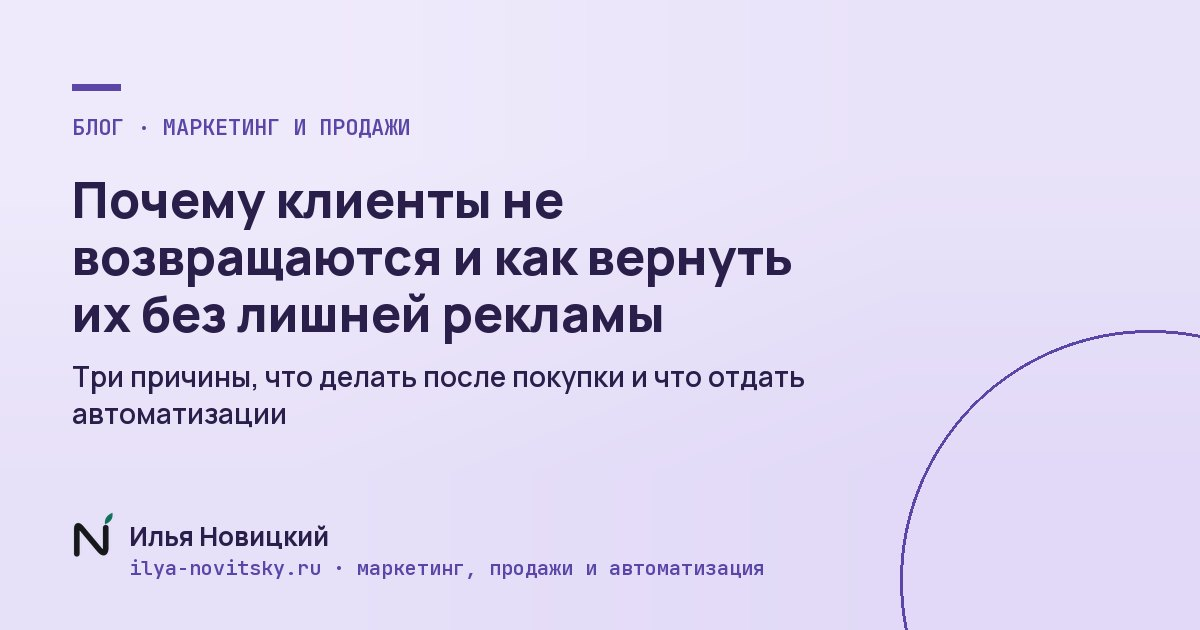
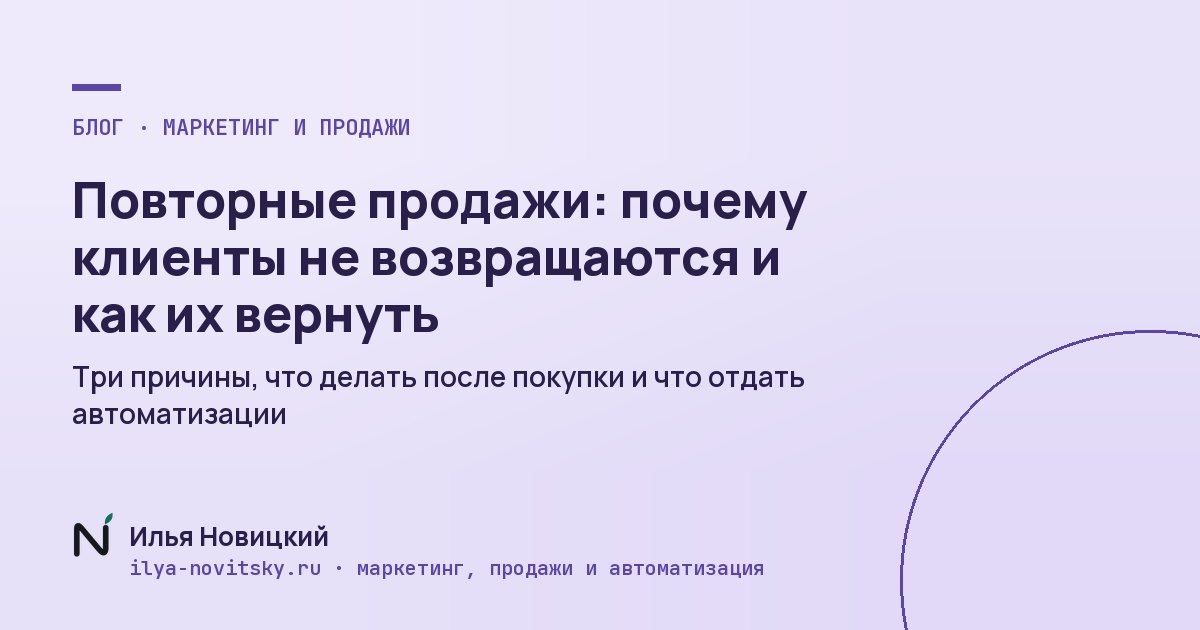
Блог: уникальность статей (убраны повторы между статьями), новые заголовки MVP, первых клиентов, повторных продаж (#218)

Changed region(s): [[0.0617, 0.3921, 0.6783, 0.5429], [0.1233, 0.3016, 0.6783, 0.3619]]

diff --git a/content/blog/vnedrenie-ii-v-biznes.md b/content/blog/vnedrenie-ii-v-biznes.md
@@ -27,7 +27,7 @@ cover: "Внедрение ИИ в бизнес"
 
 Прежде чем что-то автоматизировать, стоит пройти путь клиента целиком, от первого обращения до оплаты и повторной покупки, и посмотреть, где люди уходят.
 
-В [примере аудита](/primer-audita) на сайте разобрана сеть из трёх студий растяжки. Собственник хотел увеличить рекламный бюджет, потому что абонементов продавали мало. Разбор показал, что реклама работает нормально, а деньги уходят после обращения: 81 человек из 180 ждал ответа больше часа, 25 из 70 записавшихся не приходили на пробное, а из постоянной базы каждый месяц уходило 42 человека.
+В [примере аудита](/primer-audita) на сайте разобрана сеть из трёх студий растяжки. Собственник хотел увеличить рекламный бюджет, потому что абонементов продавали мало. Разбор показал, что реклама работает нормально, а деньги уходят после обращения: 81 человек из 180 ждал ответа больше часа, а дальше люди терялись на пробных занятиях и продлениях.
 
 [[viz:funnel]]
 
@@ -49,7 +49,7 @@ cover: "Внедрение ИИ в бизнес"
 
 Не нужен: продажа абонемента на пробном, потому что это работа тренера и она уже идёт; «ИИ-контент» без плана, от которого публикаций больше, а клиентов нет; замена администратора, который нужен для звонков.
 
-Хороший признак задачи для ИИ: она повторяется, у неё есть понятный образец хорошего результата, а ошибку легко заметить. Плохой признак: задача держится на живом контакте, доверии или решении, за которое кто-то отвечает деньгами.
+Граница проходит так: ИИ берёт то, где важны скорость и аккуратность, а люди то, где важны доверие и ответственность за решение.
 
 ## Шаг 4. Наведите порядок до автоматизации
 
@@ -63,13 +63,13 @@ cover: "Внедрение ИИ в бизнес"
 
 Пилот на одной задаче лучше, чем внедрение «везде понемногу». Выберите самую дорогую рутину из шага 2, которая прошла фильтр из шага 3, и отдайте её агенту.
 
-Через пару недель видно, сколько часов освободилось, сколько обращений получили ответ без участия людей и как часто приходится переделывать работу агента. Если цифры понятны, берёте следующую задачу. Если нет, стоит разобраться, что пошло не так, до того как масштабировать.
+Результат пилота меряется простыми вещами: сколько часов освободилось, сколько обращений получили ответ без участия людей и как часто приходится переделывать работу агента. Если цифры понятны, берёте следующую задачу. Если нет, стоит разобраться, что пошло не так, до того как масштабировать.
 
 ## Шаг 6. Решите, кто управляет агентами
 
-Это шаг, который чаще всего пропускают. Пока агент один, его легко проверять самому. Когда их пять или десять, кто-то должен каждый день ставить им задачи, проверять работу и дописывать правила.
+Это шаг, который чаще всего пропускают. Агенты не устают, но и сами себя не улучшают: инструкции устаревают, бизнес меняется, и кто-то должен регулярно это подправлять.
 
-Вариантов три. Вы делаете это сами, и тогда стоит заложить на это время. Вы поручаете это сотруднику, которому интересно разбираться в ИИ. Или вы берёте в команду специалиста по внедрению ИИ, который приходит со своими агентами и управляет ими сам. Так работаю я: ставлю задачи отделам агентов, проверяю каждый результат и приношу собственнику готовое.
+Вариантов три. Вы делаете это сами, и тогда стоит заложить на это время. Вы поручаете это сотруднику, которому интересно разбираться в ИИ. Или вы берёте в команду специалиста по внедрению ИИ, который приходит со своими агентами и управляет ими сам. Так работаю я: агенты в моей среде разложены по отделам, задачи им ставлю я и перед собственником за результат отвечаю тоже я.
 
 **Внедрение ИИ в бизнес держится на трёх вещах: деньги, порядок и человек, который за это отвечает.** Нейросеть здесь только способ.
 
@@ -85,4 +85,4 @@ cover: "Внедрение ИИ в бизнес"
 Если агентов один-два, справится и собственник. Если вы хотите, чтобы ИИ работал в нескольких отделах сразу, нужен человек, который управляет агентами каждый день, иначе через месяц всё вернётся к ручной работе.
 
 **Подходит ли внедрение ИИ маленькой компании?**  
-Да. Решения там принимаются быстрее, а каждый освобождённый час заметен сразу. Какую работу можно отдать в первую очередь, я разбирал в статье про [ИИ-сотрудника для бизнеса](/blog/ii-sotrudnik-dlya-biznesa).
+Да. Решения там принимаются быстрее, а каждый освобождённый час заметен сразу. Какую работу можно отдать в первую очередь, смотрите в статье про [ИИ-сотрудника для бизнеса](/blog/ii-sotrudnik-dlya-biznesa).

diff --git a/content/blog/ii-v-prodazhah.md b/content/blog/ii-v-prodazhah.md
@@ -19,9 +19,9 @@ cover: "ИИ в продажах"
 
 [[viz:chat]]
 
-**Напоминания.** Пробное занятие, визит, конец абонемента, клиент, который давно не покупал. Это скучная работа, которую люди честно забывают делать, когда заявок много. В том же примере аудита 25 из 70 записавшихся не пришли на пробное, а напоминаний им никто не отправлял.
+**Напоминания.** Пробное занятие, визит, конец абонемента, клиент, который давно не покупал. Это скучная работа, которую люди честно забывают делать, когда заявок много. А клиент, которому никто не напомнил о пробном занятии, часто просто не приходит.
 
-**Разбор переписки и звонков.** Менеджеру некогда перечитывать сотни диалогов и искать, на каком шаге уходят клиенты. Агент делает это за часы. Так мои агенты разобрали больше 4 100 сделок в CRM моего агентства.
+**Разбор переписки и звонков.** Менеджеру некогда перечитывать сотни диалогов и искать, на каком шаге уходят клиенты. Агент читает всё подряд и приносит короткий вывод: на каком вопросе люди замолкают, какое возражение звучит чаще всего, кто из менеджеров теряет больше заявок.
 
 ## Что делает ИИ-агент в отделе продаж
 
@@ -45,9 +45,9 @@ cover: "ИИ в продажах"
 
 ## Что оставить менеджеру
 
-Есть работа, которую ИИ-агент сделает быстро и уверенно, и именно поэтому её опасно отдавать без человека.
+В продажах есть моменты, где скорость не главное, а цена ошибки высокая.
 
-**Разговор с клиентом, который готов купить.** Доверие, интонация, умение услышать, что на самом деле мешает решиться, пока остаются за людьми.
+**Живой разговор перед покупкой.** Доверие, интонация, умение услышать, что на самом деле мешает решиться, пока остаются за людьми.
 
 **Торг, скидки и договорённости.** Агент может назвать цену из прайса, но любое отступление от него подтверждает человек.
 
@@ -59,14 +59,14 @@ cover: "ИИ в продажах"
 
 С порядка в CRM. Если заявки лежат в трёх мессенджерах и тетради администратора, агент будет терять их так же, как люди. Я продал лицензий amoCRM больше чем на 1 млн ₽ и почти в каждом проекте видел одно и то же: сначала этапы сделки, роли и правила, потом автоматизация.
 
-Дальше одна задача, самая дорогая по потерям. Чаще всего это первый ответ или напоминания, потому что там деньги теряются каждый день. Как найти такую задачу и посчитать цену рутины, я разбирал в статье про [внедрение ИИ в бизнес](/blog/vnedrenie-ii-v-biznes).
+Дальше одна задача, самая дорогая по потерям. Чаще всего это первый ответ или напоминания, потому что там деньги теряются каждый день. Как найти такую задачу и посчитать цену рутины, есть в статье про [внедрение ИИ в бизнес](/blog/vnedrenie-ii-v-biznes).
 
 Если непонятно, где именно уходят клиенты, начните с аудита продаж: пройдите путь клиента от обращения до оплаты и посчитайте, сколько людей теряется на каждом шаге.
 
 ## Вопросы
 
 **Заменит ли ИИ менеджеров по продажам?**  
-Нет, он заберёт у них рутину: первый ответ, напоминания, коммерческие предложения и разбор переписки. Разговор с клиентом, который готов купить, и договорённости остаются за людьми.
+Нет. У менеджера уйдут первый ответ, напоминания, черновики предложений и разбор переписки, а продавать, торговаться и договариваться будут люди.
 
 **Можно ли внедрить ИИ в продажи без CRM?**  
 Начать можно, например с бота первого ответа. Но без CRM трудно понять, что изменилось, и агент быстро упрётся в тот же беспорядок, что и люди.

diff --git a/content/blog/ii-sotrudnik-dlya-biznesa.md b/content/blog/ii-sotrudnik-dlya-biznesa.md
@@ -13,9 +13,9 @@ cover: "ИИ-сотрудник для бизнеса"
 
 ## Что такое ИИ-сотрудник простыми словами
 
-Это ИИ-агент с постоянной ролью в вашей команде. Он знает, кто ваши клиенты, что вы продаёте и как у вас принято отвечать, и каждый раз не нужно объяснять всё заново, как в обычном чате с нейросетью.
+Это ИИ-агент с постоянной ролью в вашей команде. Он помнит ваш прайс, ваших клиентов и то, как у вас принято отвечать, поэтому вводить его в курс дела каждый раз не нужно.
 
-От чат-бота его отличает то, что он не ходит по заранее заданному сценарию. Вы ставите задачу обычными словами, он сам раскладывает её на шаги, делает и приносит готовый результат на проверку. Подробно о том, как такого агента собрать, я писал в статье [как создать ИИ-агента для своих задач](/blog/kak-sozdat-ii-agenta).
+От чат-бота его отличает то, что он не ходит по заранее заданному сценарию. Вы описываете, что нужно получить, а он сам решает, с чего начать, и возвращается с готовой работой. Подробно о том, как такого агента собрать, я писал в статье [как создать ИИ-агента для своих задач](/blog/kak-sozdat-ii-agenta).
 
 У меня таких сотрудников 19, и они разложены по восьми отделам: управление, продажи, маркетинг, разработка, финансы, реклама, персонал и видео. Ниже работа, которую они уже делают на живых проектах.
 
@@ -47,7 +47,7 @@ cover: "ИИ-сотрудник для бизнеса"
 
 ## С какой задачи начать
 
-Я выбираю первую задачу по трём признакам. Она повторяется каждую неделю. У неё есть образец хорошего результата, который можно показать агенту. И ошибку в ней легко заметить при проверке.
+Я выбираю первую задачу по трём признакам: работа повторяется из недели в неделю, есть пример того, как выглядит «хорошо», и ошибку видно сразу при проверке.
 
 Например, ответы на типовые вопросы клиентов подходят почти всем. Коммерческое предложение по шаблону подходит тем, кто продаёт услуги. Разбор звонков и переписки подходит тем, у кого заявки есть, а продаж мало и непонятно почему.
 
@@ -62,10 +62,7 @@ cover: "ИИ-сотрудник для бизнеса"
 ## Вопросы
 
 **Заменит ли ИИ-сотрудник менеджера по продажам?**  
-Скорее заберёт у него рутину: ответы на типовые вопросы, коммерческие предложения, напоминания пропавшим клиентам. Разговор с клиентом, который готов купить, и договорённости остаются за человеком.
-
-**Чем ИИ-сотрудник отличается от чат-бота?**  
-Чат-бот отвечает по сценарию. ИИ-сотрудник получает задачу, сам решает, какие шаги нужны, и приносит готовую работу на проверку.
+Скорее заберёт у него рутину. Подробно, что отдать агентам, а что оставить менеджеру, разобрано в статье про [ИИ в продажах](/blog/ii-v-prodazhah).
 
 **Безопасно ли давать ИИ-сотруднику доступ к CRM?**  
 Для разбора хватает доступа только на чтение, тогда агент ничего не меняет. Какие данные он видит и где они лежат, стоит решить до первого запуска.

diff --git a/content/blog/kursy-po-ai-a-produkta-net.md b/content/blog/kursy-po-ai-a-produkta-net.md
@@ -27,7 +27,7 @@ cover: "Обучение ИИ для бизнеса"
 
 «Логику понимаю, а собрать не выходит» тоже цитата, и она очень точная. Чаще всего за ней стоят три вещи.
 
-**Начинают с инструментов.** Агенты, навыки, подписки, подключения. Через месяц у человека пять настроенных сервисов, аккуратная папка с промптами, а клиентов пока нет. Как кто-то написал там же, «делаю ту же ерунду, только быстрее».
+**Начинают с инструментов.** Агенты, навыки, подписки, подключения. Через месяц у человека пять настроенных сервисов, аккуратная папка с промптами, а клиентов пока нет. Скорость выросла, а денег не прибавилось.
 
 **Сразу садятся собирать.** Месяц сборки, а потом выясняется, что продукт нужен не тем или не так, и половину приходится выбрасывать. Это обидно и дорого, хотя заметно не сразу.
 
@@ -41,7 +41,7 @@ cover: "Обучение ИИ для бизнеса"
 
 Затем прототип. Его можно пройти руками и показать живым людям, пока менять что-то ещё дёшево. **И только после этого сборка**, маленькими шагами, каждый из которых проверен, прежде чем браться за следующий.
 
-Основу своей платформы для мастеров красоты я так собрал за две недели, хотя писать код не умею. Получилось потому, что к моменту сборки уже было понятно, что и для кого строить.
+Так я собираю все свои продукты, хотя писать код не умею. Сборка идёт быстро ровно потому, что к её началу уже понятно, что и для кого строить.
 
 **Порядок шагов решает больше, чем знание инструментов.**
 

diff --git a/content/blog/pervye-platyashchie-klienty.md b/content/blog/pervye-platyashchie-klienty.md
@@ -1,8 +1,8 @@
 ---
-title: "Где взять первых платящих клиентов, если продукт уже собран"
+title: "Первые клиенты для IT-продукта: где взять, если продукт уже собран"
 h1: "Продукт готов, а платящих клиентов нет: где взять первых двадцать"
 description: "Первые клиенты IT-продукта приходят из разговоров, а не из рекламы: кого звать первым, когда называть цену и как понять, что пора включать каналы."
-cover: "Первые платящие клиенты"
+cover: "Первые клиенты IT-продукта"
 ---
 
 «Три проекта, ноль денег. Продолжаю».
@@ -31,7 +31,7 @@ cover: "Первые платящие клиенты"
 
 Если дело уже какое-то время работает, список почти наверняка есть. Это старые заявки в CRM, переписки, визитки с конференций и люди, которые когда-то спрашивали и пропали. Его нужно открыть и разложить по группам: кому ближе всего ваша новая задача, кто просто знаком, кто далеко. **Тёплые люди у вас почти всегда уже есть, а к ним редко возвращаются.**
 
-Здесь хорошо помогают ИИ-агенты. Разобрать сотни старых сделок и переписок вручную некогда, а агент делает это за часы. Так мои агенты разобрали больше 4 100 сделок в CRM моего агентства и помогли понять, с кем из бывших клиентов стоит поговорить первым.
+Здесь хорошо помогают ИИ-агенты. Перечитывать старые сделки и переписки вручную никто не станет, а агент спокойно пройдёт по всей базе и отметит, кто когда-то интересовался похожей задачей. С этого списка и стоит начинать звонки.
 
 ## Что говорить в первом разговоре
 

diff --git a/content/blog/kak-sozdat-ii-agenta.md b/content/blog/kak-sozdat-ii-agenta.md
@@ -15,7 +15,7 @@ cover: "Как создать своего ИИ-агента"
 
 ## Чем ИИ-агент отличается от обычного чата с нейросетью
 
-В обычном чате вы каждый раз начинаете с нуля: объясняете, кто вы, что продаёте и каким тоном писать. Нейросеть отвечает на тот вопрос, который вы задали, и забывает контекст, как только вы открыли новый диалог.
+В обычном чате вы каждый раз начинаете с нуля: объясняете, кто вы, что продаёте и каким тоном писать. Стоит открыть новый диалог, и всё сказанное раньше приходится повторять.
 
 ИИ-агент устроен иначе. У него есть постоянная роль, знания о вашем бизнесе и правила, по которым он работает и проверяет себя. Вы ставите задачу обычными словами, а он сам раскладывает её на шаги и приносит готовый результат.
 
@@ -80,7 +80,7 @@ cover: "Как создать своего ИИ-агента"
 ## Вопросы
 
 **Нужно ли уметь программировать, чтобы создать ИИ-агента?**  
-Нет. Роль, знания и правила пишутся обычным языком, а техническую часть можно пройти по инструкции шаг за шагом. Я сам не программист и свои продукты собираю именно так.
+Нет. Роль, знания и правила пишутся обычным языком, а техническую часть можно пройти по инструкции шаг за шагом. Код за вас напишут ИИ-инструменты, а ваша часть в том, чтобы объяснить задачу.
 
 **Чем ИИ-агент отличается от чат-бота?**  
 Чат-бот отвечает по заранее заданному сценарию. ИИ-агент получает задачу, сам решает, какие шаги нужны, и может передать часть работы другим агентам.

diff --git a/content/blog/pochemu-klienty-ne-vozvrashhayutsya.md b/content/blog/pochemu-klienty-ne-vozvrashhayutsya.md
@@ -1,8 +1,8 @@
 ---
-title: "Почему клиенты не возвращаются и как вернуть их без лишней рекламы"
+title: "Повторные продажи: почему клиенты не возвращаются и как их вернуть"
 description: "Три причины, по которым довольные клиенты не приходят снова, что делать после первой покупки и какие напоминания можно отдать автоматизации и ИИ."
 h1: "Почему клиенты не возвращаются после первой покупки и что с этим делать"
-cover: "Почему не возвращаются"
+cover: "Повторные продажи"
 ---
 
 У мастера красоты несколько десятков клиенток. Кто-то ходит каждые три недели как часы, кто-то пропал два месяца назад, и мастер это вроде бы помнит, но написать «давно вас не было» руки не доходят: то запись, то усталость, то неловко.
@@ -51,7 +51,7 @@ cover: "Почему не возвращаются"
 
 **Сигналы ухода.** Клиент пропустил два визита подряд или не продлил подписку, и об этом узнаёт тот, кто может позвонить, а не только отчёт в конце месяца.
 
-Что ещё в продажах можно отдать агентам, а что оставить людям, я разбирал в статье про [ИИ в продажах](/blog/ii-v-prodazhah).
+Остальные задачи отдела продаж, которые подходят агентам, собраны в статье про [ИИ в продажах](/blog/ii-v-prodazhah).
 
 ## Как удержать клиента, который собрался уйти
 

diff --git a/content/blog/podryadchiki-bez-rezultata.md b/content/blog/podryadchiki-bez-rezultata.md
@@ -73,4 +73,4 @@ CRM аккуратно запишет, где вы теряете клиенто
 **А маркетолога в штат?**  
 Можно, если он будет отвечать за весь путь, а не встанет шестым в ряд исполнителей. На собеседовании спросите его, как через месяц он поймёт, что работает.
 
-Начните с листа бумаги и часа без телефона, это бесплатно. А если карта нарисовалась и непонятно, что с ней делать дальше, приходите на бесплатный разбор задачи: за 30 минут посмотрим её вместе.
+Начните с листа бумаги и часа без телефона, это бесплатно. А если карта нарисовалась и непонятно, что с ней делать дальше, покажите её мне на бесплатном разборе, разберёмся вместе.

diff --git a/content/blog/skolko-stoit-mvp.md b/content/blog/skolko-stoit-mvp.md
@@ -1,8 +1,8 @@
 ---
-title: "Сколько стоит MVP в 2026 году и что сделать до разработки"
+title: "Разработка MVP в 2026 году: сколько стоит и что сделать до кода"
 h1: "Сколько стоит разработка MVP в 2026 году и почему считать надо не с кода"
 description: "Сколько стоит разработка MVP у студии, у разработчика на почасовке и самому с нейросетями. Где теряют деньги и что сделать до того, как платить за код."
-cover: "Сколько стоит MVP"
+cover: "Разработка MVP: сколько стоит"
 ---
 
 Вы приходите с одной и той же идеей в три места.
